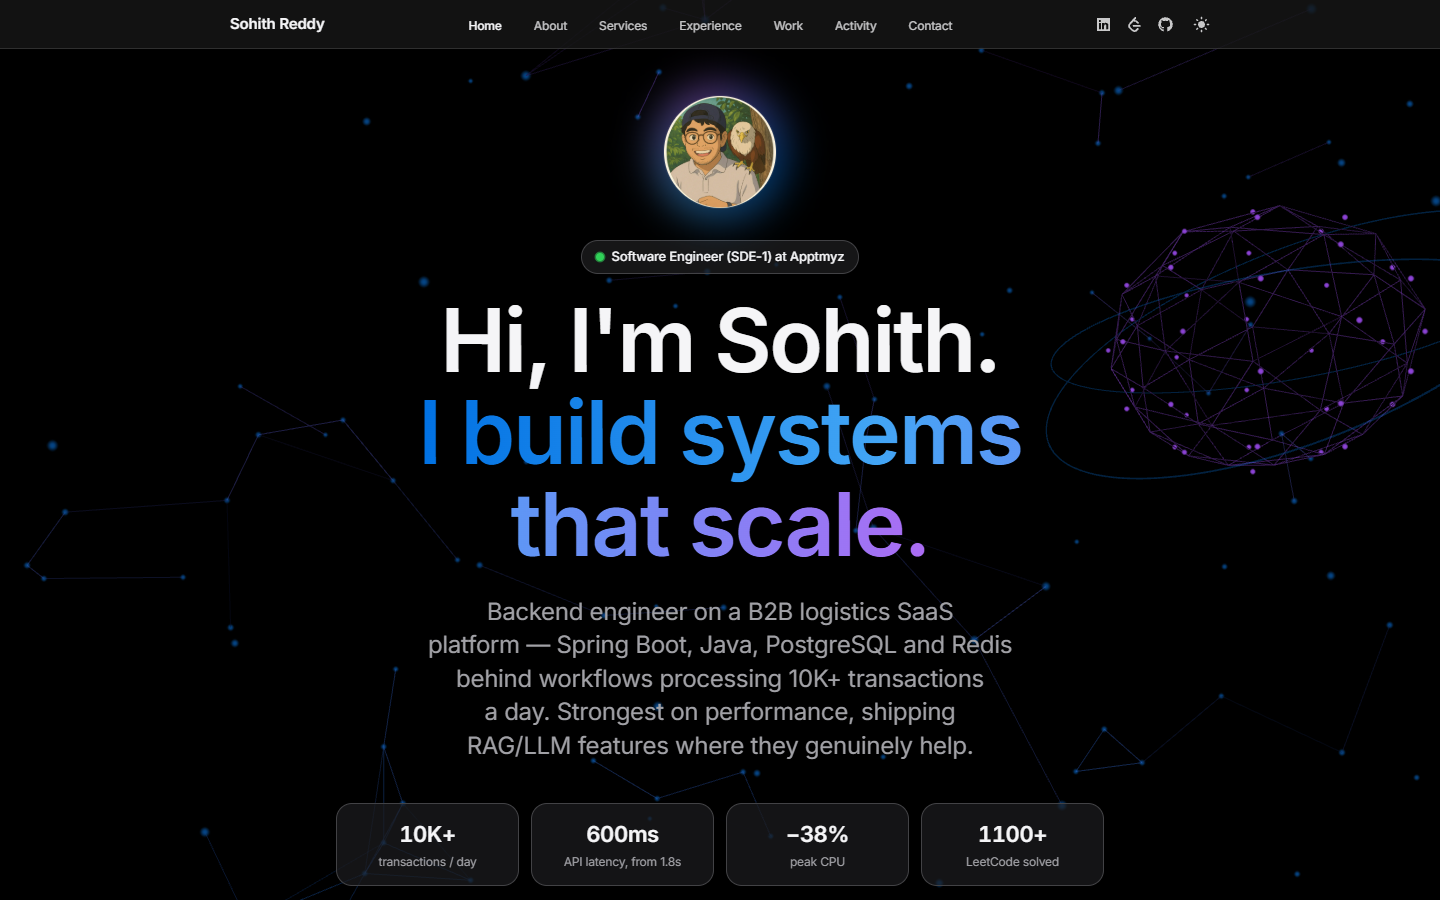
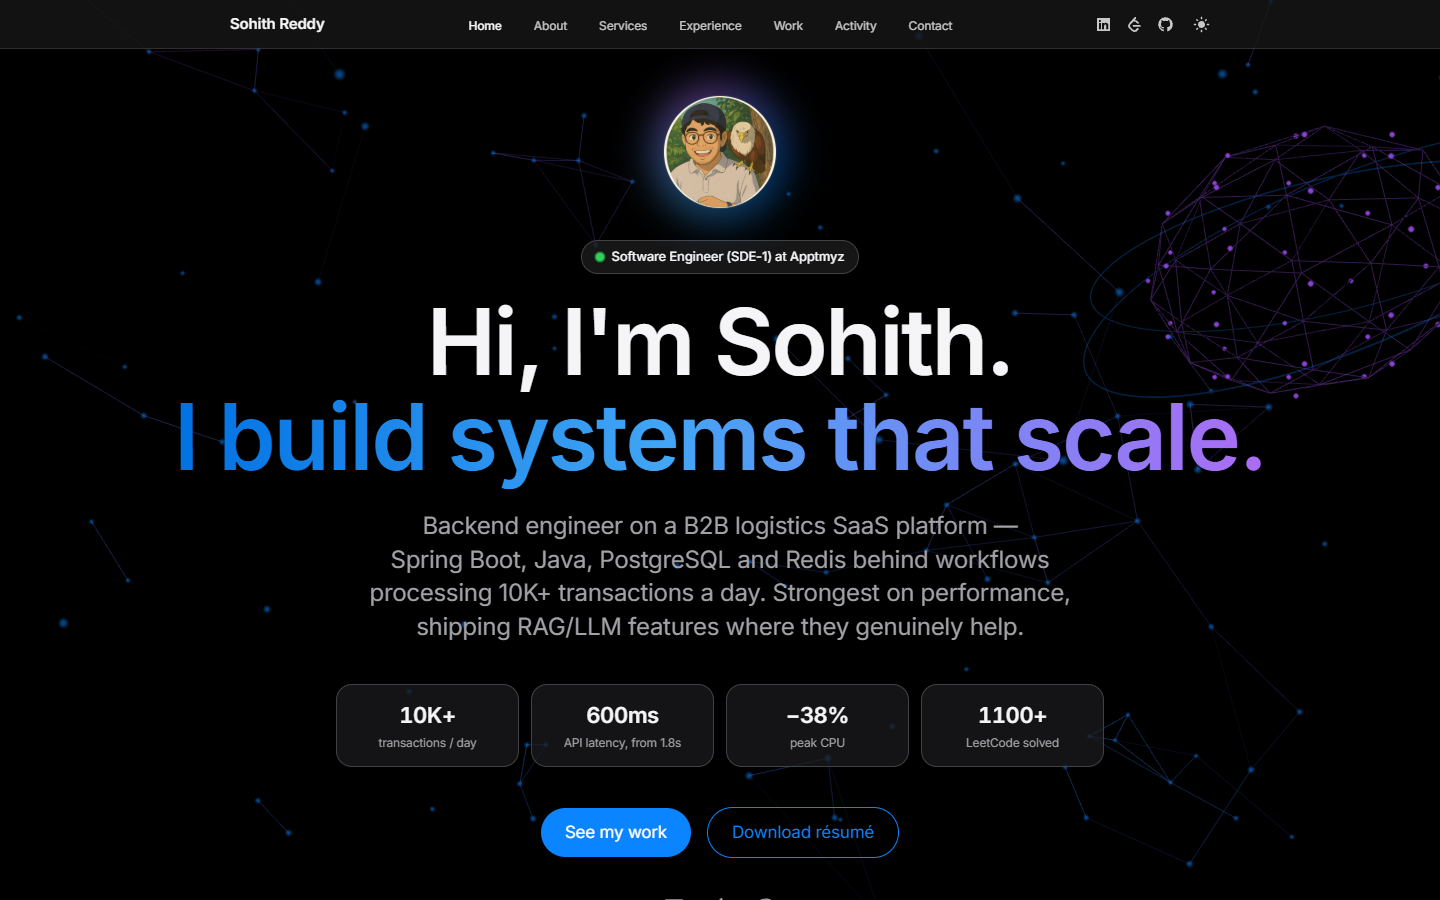
Stretch hero headline to one line on wide screens
Give the hero a wider container and a viewport-based font size so each
headline sentence stays on one line from 768px up. Move the 3D core up
and to the right so it clears the text, and refresh the README hero
screenshots.

diff --git a/app/components/Header.jsx b/app/components/Header.jsx
@@ -28,7 +28,7 @@ const Header = () => {
       id="top"
       className="min-h-screen flex flex-col items-center justify-center text-center pt-24 pb-16"
     >
-      <div className="apple-container flex flex-col items-center">
+      <div className="apple-container hero-container flex flex-col items-center">
         <motion.div variants={rise} initial="hidden" animate="show" custom={0} className="relative mb-8">
           <span className="avatar-glow" aria-hidden="true" />
           <Image
@@ -55,12 +55,12 @@ const Header = () => {
           initial="hidden"
           animate="show"
           custom={2}
-          className="apple-hero max-w-5xl"
+          className="apple-hero hero-title"
         >
-          {/* Separate blocks so each line balances on its own instead of
-              leaving "scale." stranded on a third line. */}
+          {/* Two blocks: on wide screens each line stays whole; on narrow
+              screens each one wraps and balances on its own. */}
           <span className="block">Hi, I&apos;m Sohith.</span>
-          <span className="block">
+          <span className="block hero-title-line">
             <span className="apple-gradient-text">I build systems that scale.</span>
           </span>
         </motion.h1>
@@ -70,7 +70,7 @@ const Header = () => {
           initial="hidden"
           animate="show"
           custom={3}
-          className="apple-subhead max-w-2xl mt-6"
+          className="apple-subhead max-w-3xl mt-6"
         >
           Backend engineer on a B2B logistics SaaS platform&nbsp;— Spring Boot, Java,
           PostgreSQL and Redis behind workflows processing 10K+ transactions a

diff --git a/app/components/ThreeBackground.jsx b/app/components/ThreeBackground.jsx
@@ -115,13 +115,13 @@ const ThreeBackground = () => {
       // it across the hero copy; it only gets its own gentle tilt.
       const core = new THREE.Group();
       // Sits off to the right of the hero copy on desktop, above it on mobile.
-      const coreBase = { x: 0, y: isSmall ? 10 : 5 };
-      // Keep the core in the right-hand margin at any aspect ratio: 74% of
+      const coreBase = { x: 0, y: isSmall ? 10 : 8.5 };
+      // Keep the core in the right-hand margin at any aspect ratio: 80% of
       // the half-width visible at the core's depth (camera z 32, core z -4).
       const placeCore = () => {
         if (isSmall) return;
         const halfH = Math.tan(THREE.MathUtils.degToRad(camera.fov / 2)) * 36;
-        coreBase.x = halfH * camera.aspect * 0.74;
+        coreBase.x = halfH * camera.aspect * 0.8;
         core.position.x = coreBase.x;
       };
       core.position.set(coreBase.x, coreBase.y, -4);

diff --git a/app/globals.css b/app/globals.css
@@ -280,6 +280,23 @@ body {
   padding-inline: 22px;
 }
 
+/* The hero gets a wider well than the 1024px content column so the
+   headline can run on one line per sentence on large screens. */
+.hero-container {
+  max-width: 1320px;
+}
+/* Scales with the viewport so "I build systems that scale." fits on one
+   line from 1024px up; below that it wraps and balances. */
+.hero-title {
+  font-size: clamp(2.75rem, 6.4vw, 6.25rem);
+  line-height: 1.04;
+}
+@media (min-width: 1024px) {
+  .hero-title-line {
+    white-space: nowrap;
+  }
+}
+
 /* Inputs on Apple forms are soft, borderless-ish and rounded */
 .input-apple {
   width: 100%;
